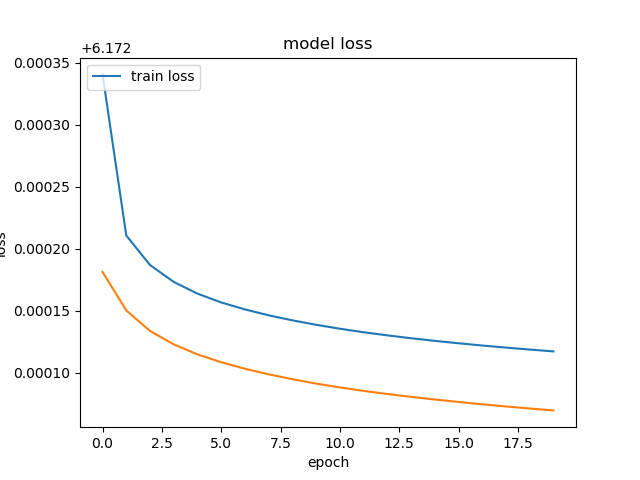
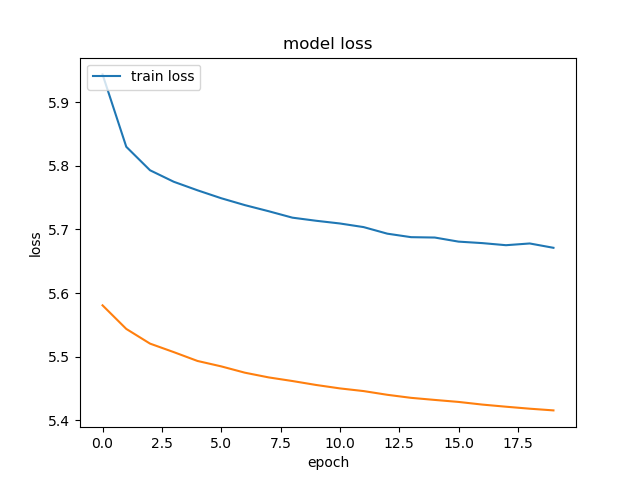
Run 3

diff --git a/src/models.py b/src/models.py
@@ -4,7 +4,7 @@ from keras.preprocessing import image as image_utils
 from keras.optimizers import Adam, SGD
 from keras import metrics, regularizers
 
-l2_rate = 0.001
+l2_rate = 0.00005
 
 def getModel(modelString, dim, opt = "adam", BN = False, dropout = 0, initializer = 'random_uniform'):
     allModels = ['vgg_z']
@@ -20,9 +20,9 @@ def getModel(modelString, dim, opt = "adam", BN = False, dropout = 0, initialize
 def vgg_z(dim, opt, BN, dropout, initializer):
     model = Sequential()
     if opt == 'Adam':
-        opt = Adam(lr=0.001)
+        opt = Adam(lr=0.01, decay=0.99)
     if opt == 'sgd_mom':
-        opt = SGD(momentum=0.9, decay=0.99)
+        opt = SGD(lr=0.1, momentum=0.9, decay=0.9, nesterov=True)
     if BN:
         do_BN = lambda : model.add(BatchNormalization())
     else:
@@ -35,7 +35,8 @@ def vgg_z(dim, opt, BN, dropout, initializer):
     model.add(Conv2D(32, (2,1), padding="same"))
     do_BN()
     model.add(Activation('relu'))
-    model.add(Conv2D(32, (1,2), padding="same"))
+    model.add(Conv2D(32, (1,2), padding="same",
+        kernel_regularizer=regularizers.l2(l2_rate)))
     do_BN()
     model.add(Activation('relu'))
 
@@ -53,7 +54,8 @@ def vgg_z(dim, opt, BN, dropout, initializer):
     model.add(Activation('relu'))
 
     model.add(Conv2D(48, (2,2), padding="same",
-        kernel_initializer = initializer))
+        kernel_initializer = initializer,
+        kernel_regularizer=regularizers.l2(l2_rate)))
     do_BN()
     model.add(Activation('relu'))
 
@@ -71,7 +73,8 @@ def vgg_z(dim, opt, BN, dropout, initializer):
     model.add(Activation('relu'))
 
     model.add(Conv2D(80, (2,2), padding="same",
-        kernel_initializer = initializer))
+        kernel_initializer = initializer,
+        kernel_regularizer=regularizers.l2(l2_rate)))
     do_BN()
     model.add(Activation('relu'))
 

diff --git a/src/main.py b/src/main.py
@@ -29,7 +29,7 @@ from models import *
 
 # Global parameters
 EPOCHS = 20
-BATCH_SIZE = 50
+BATCH_SIZE = 100
 NUM_CLASSES = 200
 IMAGE_SIZE = 64
 NUM_CHANNELS = 3
@@ -65,8 +65,7 @@ def trainModel(model_list):
     X_tr, y_tr, X_val, y_val = getPreparedData()
     # Prepare data generator object
     datagen = image_utils.ImageDataGenerator(
-        featurewise_center=True, 
-        samplewise_center=True
+        featurewise_center=True
     )
     datagen.fit(X_tr)
     for m_name, params in model_list:
@@ -90,13 +89,13 @@ def trainModel(model_list):
 def main():
     getData # Prepare data
     model_list = [
-        # Name,             ["architect", (res),   "solver",  BN?, dropout, init
+        # Name,               ["architect", (res),   "solver",  BN?, dropout, init
         # ("sgd",             ["vgg_z", (64, 64, 3), "sgd",     False,   0, 'random_uniform']),
-        # ("sgd_mom",         ["vgg_z", (64, 64, 3), "sgd_mom", False,   0, 'random_uniform']),
+        ("sgd_mom",         ["vgg_z", (64, 64, 3), "sgd_mom", True,   0.3, 'he_normal']),
         # ("adam_bn",         ["vgg_z", (64, 64, 3), "Adam",    True,    0, 'random_uniform']),
-        # ("adam_drop",     ["vgg_z", (64, 64, 3), "Adam",    False, 0.3, 'random_uniform']),
-        ("adam_bn_drop",    ["vgg_z", (64, 64, 3), "Adam",    True,  0.7, 'random_uniform']),
-        ("adam_bn_drop_he", ["vgg_z", (64, 64, 3), "Adam",    True,  0.7, 'he_normal'])
+        # ("adam_drop",       ["vgg_z", (64, 64, 3), "Adam",    False, 0.3, 'random_uniform']),
+        # ("adam_bn_drop",    ["vgg_z", (64, 64, 3), "Adam",    True,  0.7, 'random_uniform']),
+        # ("adam_bn_drop_he", ["vgg_z", (64, 64, 3), "Adam",    True,  0.5, 'he_normal'])
     ]
     trainModel(model_list)
 
